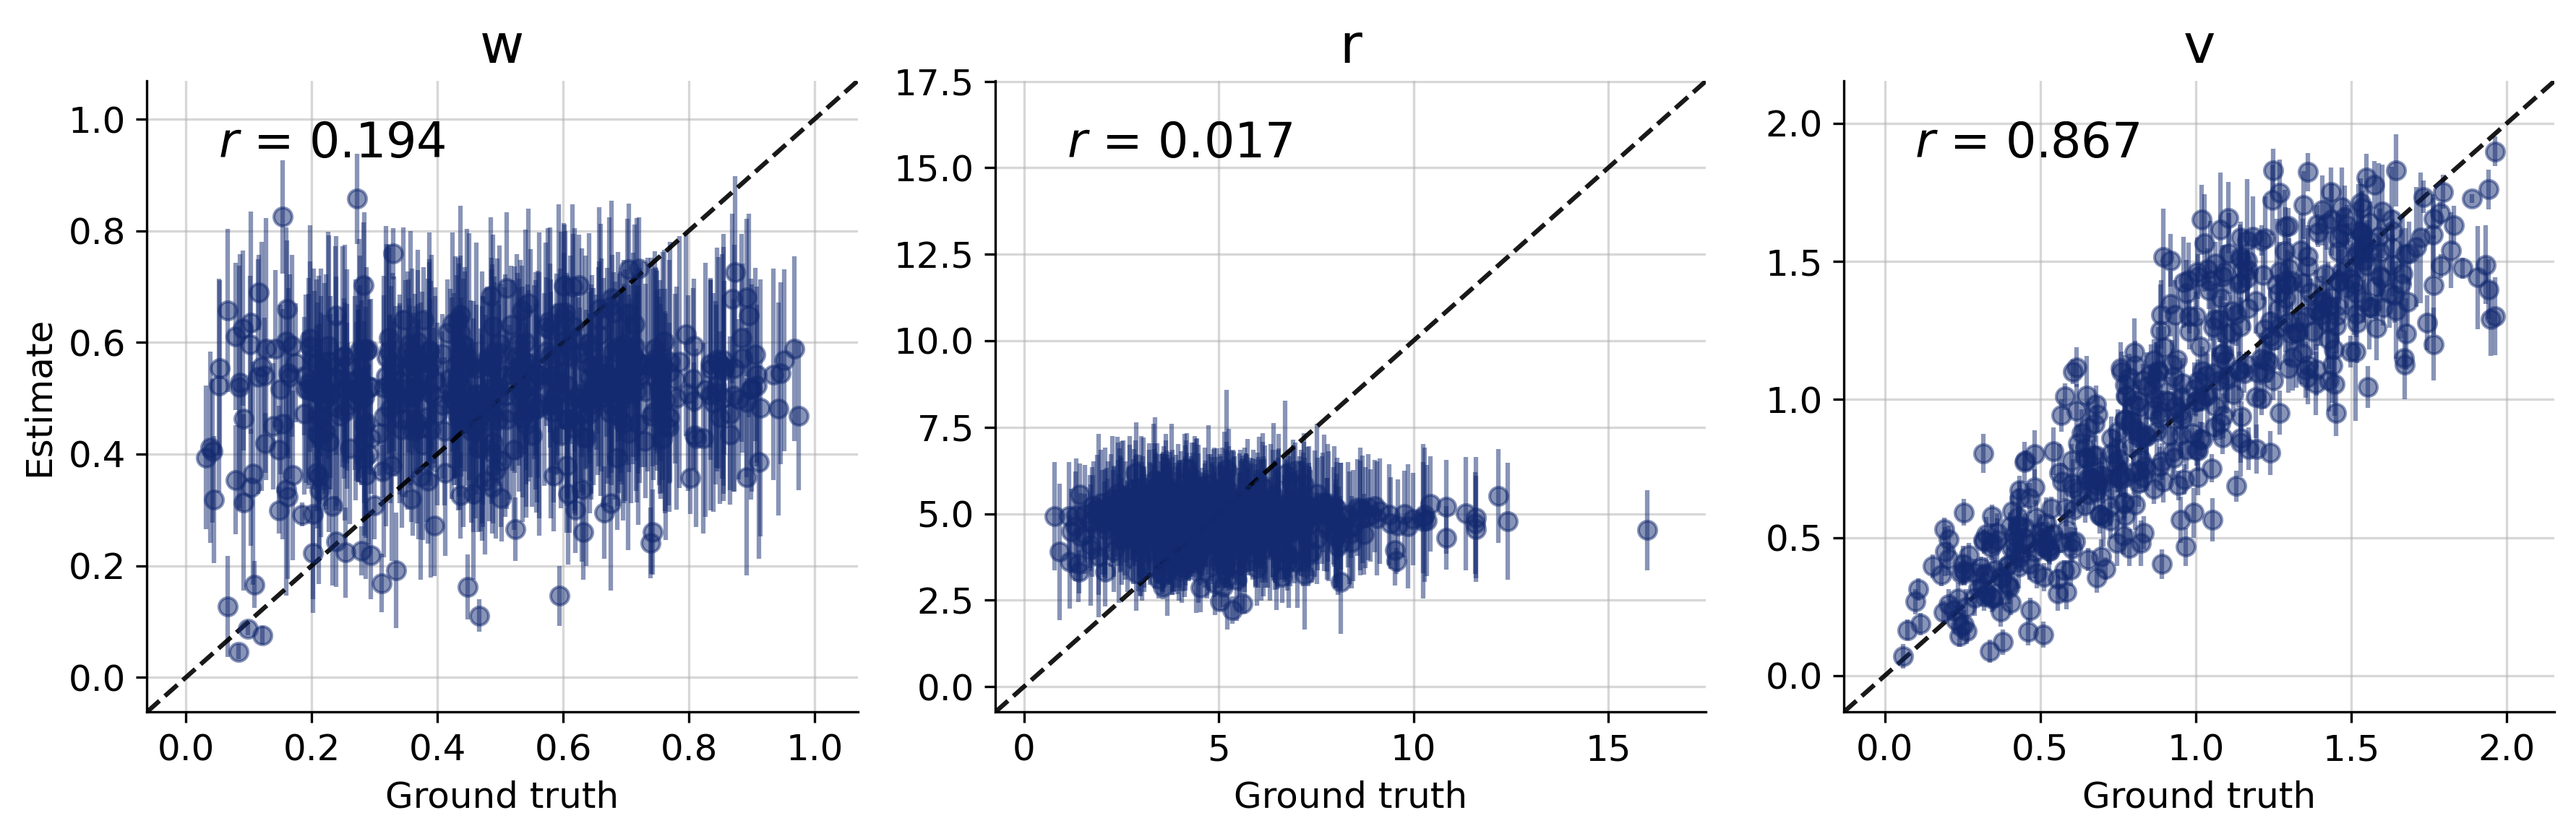
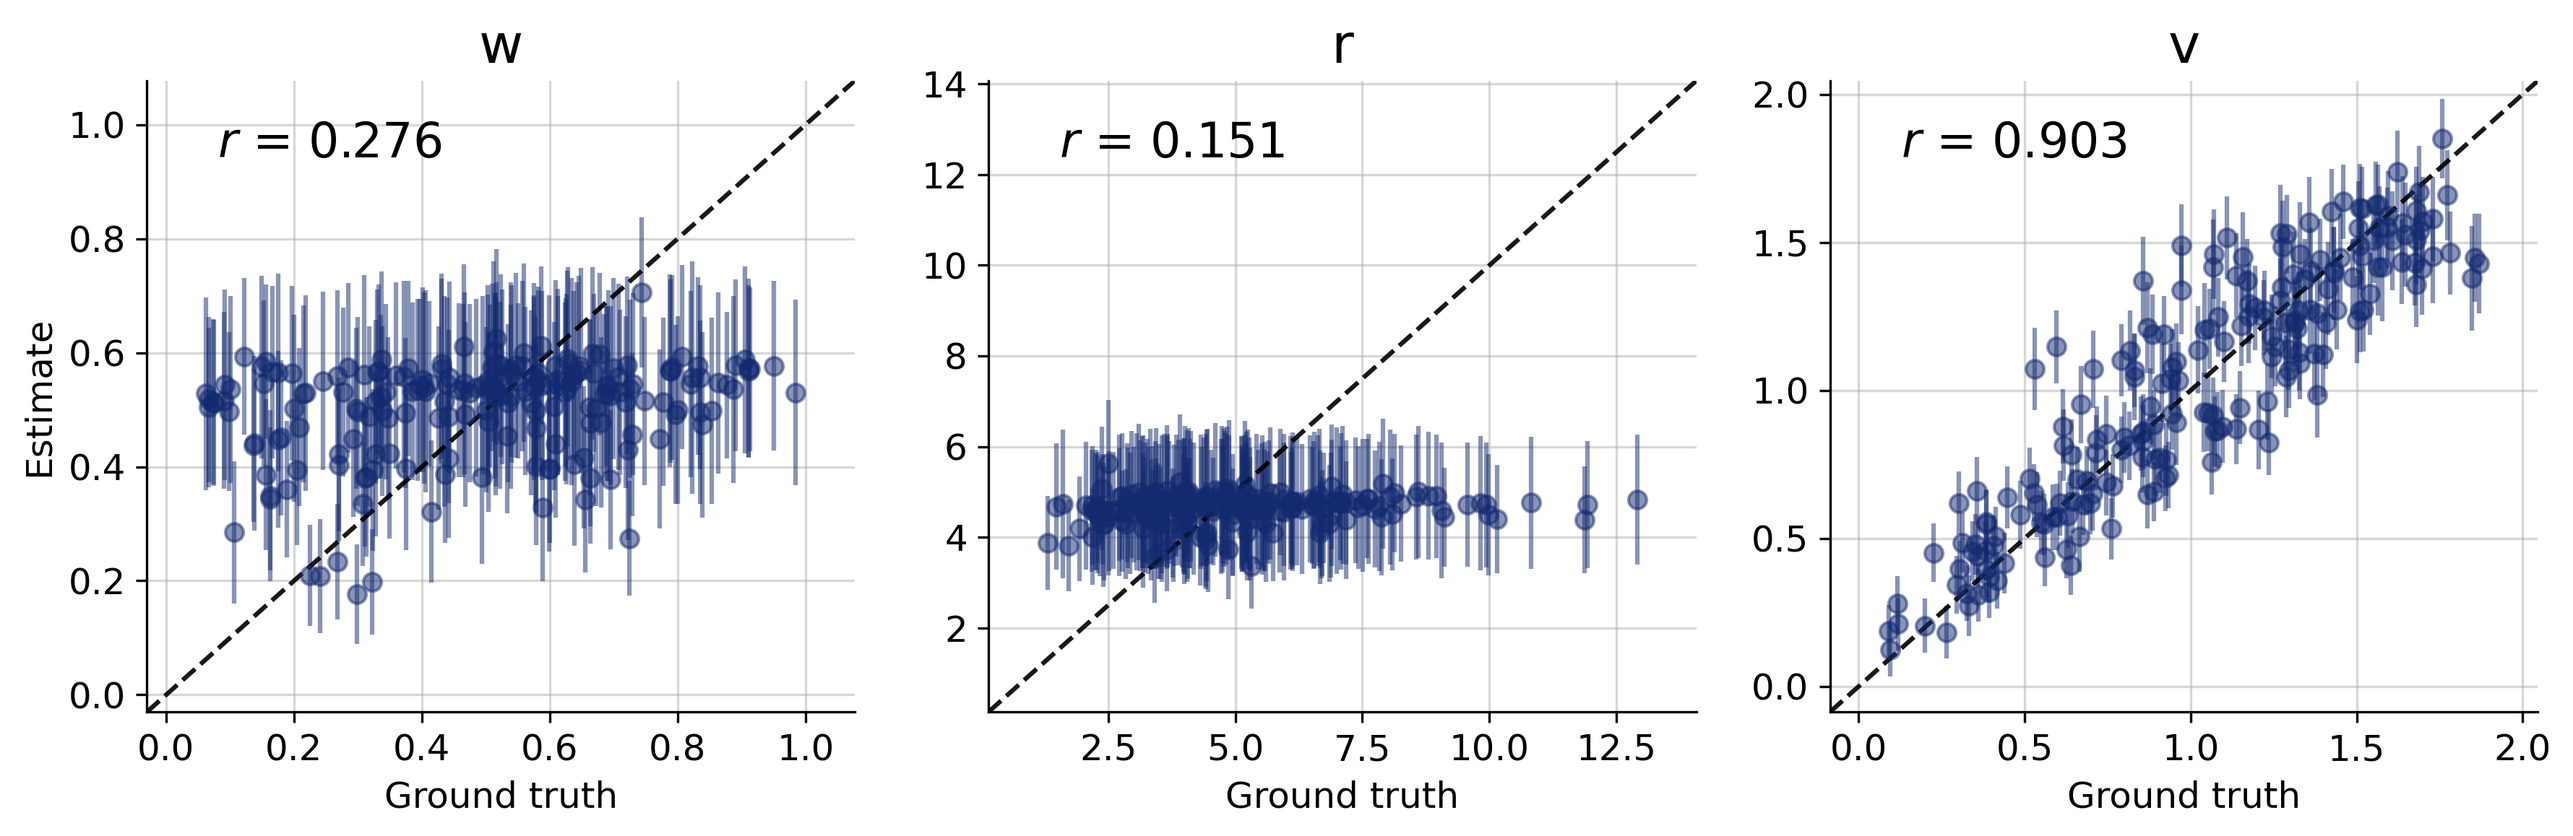
Update results

diff --git a/togetherflow/src/networks.py b/togetherflow/src/networks.py
@@ -1,5 +1,6 @@
 import keras
 import bayesflow as bf
+from keras import layers, ops
 
 
 class GRU(bf.networks.SummaryNetwork):
@@ -38,3 +39,132 @@ class SummaryNet(keras.Model):
         # Zero dummy loss so the API is satisfied
         loss = keras.ops.zeros(())
         return {"loss": loss, "outputs": outputs}
+
+class AgentTemporalEncoder(layers.Layer):
+    """Shared per-agent time-series encoder: (B, T, F) -> (B, D)."""
+
+    def __init__(self, d_model=128, conv_k=5, gru_units=128, dt=1.0, dropout=0.1):
+        super().__init__()
+        self.d_model = d_model
+        self.dt = dt
+        self.conv1 = layers.Conv1D(d_model, conv_k, padding="same")
+        self.conv2 = layers.Conv1D(d_model, conv_k, padding="same")
+        self.norm1 = layers.LayerNormalization()
+        self.gru = layers.GRU(gru_units, return_sequences=True)
+        self.norm2 = layers.LayerNormalization()
+        self.dropout = layers.Dropout(dropout)
+        self.proj = layers.Dense(d_model, activation="gelu")
+
+    def _preprocess(self, x):
+        # x: (B, T, F) with F=[x, y, theta, k_neighbors]
+        pos = x[..., :2]  # (B,T,2)
+        th = x[..., 2:3]  # (B,T,1)
+        kn = x[..., 3:4]  # (B,T,1)
+
+        dpos = ops.pad(pos[:, 1:, :] - pos[:, :-1, :], [[0, 0], [1, 0], [0, 0]])
+        speed = ops.sqrt(ops.sum(dpos ** 2, axis=-1, keepdims=True)) / self.dt
+
+        th_sin = ops.sin(th)
+        th_cos = ops.cos(th)
+        dth = ops.pad(th[:, 1:, :] - th[:, :-1, :], [[0, 0], [1, 0], [0, 0]])
+        dth = ops.atan2(ops.sin(dth), ops.cos(dth))
+        dth_sin = ops.sin(dth)
+        dth_cos = ops.cos(dth)
+
+        feats = ops.concatenate([dpos, speed, th_sin, th_cos, dth_sin, dth_cos, kn], axis=-1)
+        return feats  # (B,T,8)
+
+    def call(self, x, training=False):
+        z = self._preprocess(x)  # (B,T,8)
+        z = self.conv1(z);
+        z = ops.gelu(z);
+        z = self.norm1(z)
+        z = self.conv2(z);
+        z = ops.gelu(z)
+        z = self.gru(z, training=training)  # (B,T,gru_units)
+        z = self.norm2(z)
+        z_mean = ops.mean(z, axis=1)
+        z_max = ops.max(z, axis=1)
+        z = ops.concatenate([z_mean, z_max], axis=-1)  # (B, 2*gru_units)
+        return self.proj(z)  # (B, D)
+
+class TogetherNet(keras.Model):
+    """
+    Base summary network to plug into SummaryNet.
+
+    Accepts:
+      - (B, T, N, F)  with F=4: [x, y, theta, k_neighbors]
+      - (B, T, N*F)   flattened across agents
+
+    Outputs:
+      - (B, 2): [r_hat, v_hat] (softplus, positive)
+    """
+    def __init__(self,
+                 d_model=128,
+                 conv_k=5,
+                 gru_units=128,
+                 dt=1.0,
+                 n_heads=4,
+                 dropout=0.1,
+                 hidden=256,
+                 r_scale=1.0,
+                 v_scale=1.0,
+                 num_features=4):
+        super().__init__()
+        self.enc = AgentTemporalEncoder(d_model, conv_k, gru_units, dt, dropout)
+        self.norm_agents = layers.LayerNormalization()
+        self.mha = layers.MultiHeadAttention(num_heads=n_heads, key_dim=d_model)
+        self.query = self.add_weight(
+            name="agent_query", shape=(1, 1, d_model),
+            initializer="zeros", trainable=True
+        )
+        self.dropout = layers.Dropout(dropout)
+        self.head = keras.Sequential([
+            layers.Dense(hidden, activation="gelu"),
+            layers.Dense(hidden//2, activation="gelu"),
+            layers.Dense(2)  # raw outputs
+        ])
+        self.r_scale = r_scale
+        self.v_scale = v_scale
+        self.num_features = num_features  # F (default 4)
+
+    def call(self, x, training=False):
+        # Auto-unflatten (B, T, N*F) -> (B, T, N, F)
+        if x.ndim == 3:
+            B, T, NF = x.shape
+            F = self.num_features
+            if NF % F != 0:
+                raise ValueError(f"Last dim {NF} is not divisible by num_features={F}.")
+            N = NF // F
+            x = ops.reshape(x, (B, T, N, F))
+
+        # x now (B, T, N, F)
+        B, T, N, F = x.shape
+        x_ = ops.reshape(x, (B * N, T, F))                 # per-agent batch
+        e = self.enc(x_, training=training)                 # (B*N, D)
+        D = e.shape[-1]
+        e = ops.reshape(e, (B, N, D))                       # (B, N, D)
+        e = self.norm_agents(e)
+
+        # permutation-invariant pooling across agents
+        q = ops.tile(self.query, (B, 1, 1))                 # (B,1,D)
+        attn = self.mha(query=q, value=e, key=e, training=training)  # (B,1,D)
+        attn = ops.squeeze(attn, axis=1)                    # (B,D)
+        mean_pool = ops.mean(e, axis=1)                     # (B,D)
+        max_pool  = ops.max(e, axis=1)                      # (B,D)
+        g = ops.concatenate([attn, mean_pool, max_pool], axis=-1)    # (B,3D)
+        g = self.dropout(g, training=training)
+
+        out_raw = self.head(g)                               # (B,2)
+        out_pos = ops.softplus(out_raw)
+        r_hat = out_pos[:, :1] * self.r_scale
+        v_hat = out_pos[:, 1:2] * self.v_scale
+        return ops.concatenate([r_hat, v_hat], axis=-1) # (B,2)
+
+    def compute_output_shape(self, input_shape):
+        # Supports (B, T, N, F) and (B, T, N*F); output is (B, 2)
+        if isinstance(input_shape, (list, tuple)) and len(input_shape) >= 1:
+            B = input_shape[0]
+        else:
+            B = None
+        return (B, 2)

diff --git a/togetherflow/experiments/tflow_complete_pooling.py b/togetherflow/experiments/tflow_complete_pooling.py
@@ -1,7 +1,6 @@
 import os
 
-if "KERAS_BACKEND" not in os.environ:
-    os.environ["KERAS_BACKEND"] = "jax"
+os.environ["KERAS_BACKEND"] = "jax"
 
 import json
 import time
@@ -14,7 +13,7 @@ import matplotlib.pyplot as plt
 import seaborn as sns
 import bayesflow as bf
 
-from src import TogetherFlowSimulator, GRU, SummaryNet
+from src import TogetherFlowSimulator, GRU, SummaryNet, TogetherNet
 
 
 def save_npz_dict(d, path):
@@ -34,7 +33,7 @@ if __name__ == "__main__":
     simulator = TogetherFlowSimulator(
         num_beacons=49,
         dt=0.1,
-        time_horizon=100.,
+        time_horizon=60.,
         downsample_factor=1.
     )
 
@@ -47,15 +46,15 @@ if __name__ == "__main__":
     )
 
     # Define networks
-    # summary_net = SummaryNet(keras.Sequential([
-    #     keras.layers.Conv1D(filters=32, kernel_size=2, strides=2, activation="elu"),
-    #     keras.layers.Conv1D(filters=32, kernel_size=2, strides=2, activation="elu"),
-    #     keras.layers.LSTM(512),
-    #     keras.layers.Dense(64)
-    # ]))
+    summary_net = SummaryNet(keras.Sequential([
+        keras.layers.Conv1D(filters=32, kernel_size=2, strides=2, activation="swish"),
+        keras.layers.Conv1D(filters=32, kernel_size=2, strides=2, activation="swish"),
+        keras.layers.LSTM(512),
+        keras.layers.Dense(64)
+    ]))
     # summary_net = GRU()
-    summary_net = bf.networks.TimeSeriesTransformer(summary_dim=64)
-    inference_net = bf.networks.DiffusionModel()
+    # summary_net = TogetherNet()
+    inference_net = bf.networks.FlowMatching()
 
     # Set up workflow
     workflow = bf.workflows.BasicWorkflow(
@@ -76,7 +75,7 @@ if __name__ == "__main__":
         validation_set = load_npz_dict(val_path)
     else:
         training_set   = workflow.simulate((10000,))
-        validation_set = workflow.simulate((500,))
+        validation_set = workflow.simulate((200,))
         save_npz_dict(training_set, train_path)
         save_npz_dict(validation_set, val_path)
         meta = dict(
@@ -84,7 +83,7 @@ if __name__ == "__main__":
             created=time.strftime("%Y-%m-%d %H:%M:%S"),
             simulator="TogetherFlowSimulator",
             train_batch_shape="(10000,)",
-            val_batch_shape="(500,)",
+            val_batch_shape="(200,)",
         )
         meta_path.parent.mkdir(parents=True, exist_ok=True)
         meta_path.write_text(json.dumps(meta, indent=2))
@@ -94,7 +93,7 @@ if __name__ == "__main__":
         data=training_set,
         validation_data=validation_set,
         batch_size=32,
-        epochs=100
+        epochs=10
     )
 
     # Diagnostics

diff --git a/togetherflow/src/__init__.py b/togetherflow/src/__init__.py
@@ -1,2 +1,2 @@
 from .simulator import TogetherFlowSimulator
-from .networks import GRU, SummaryNet
+from .networks import GRU, SummaryNet, TogetherNet
